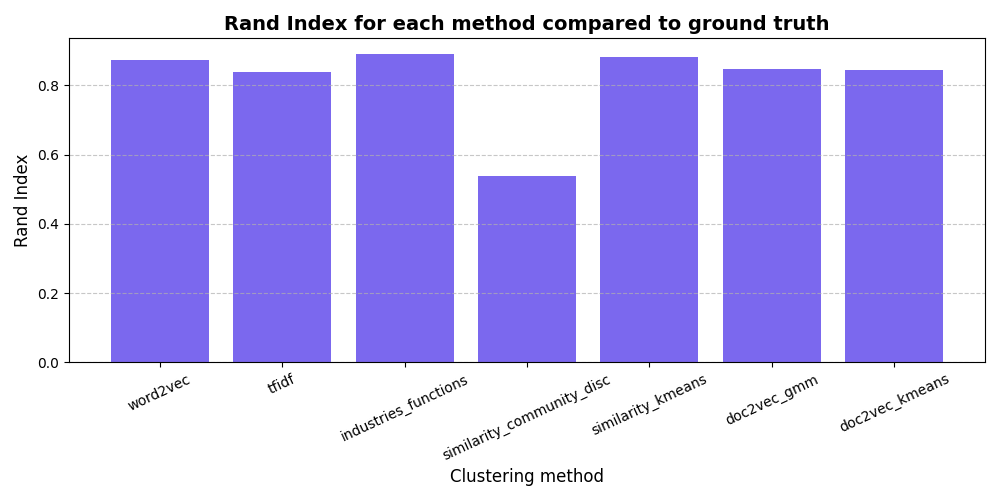
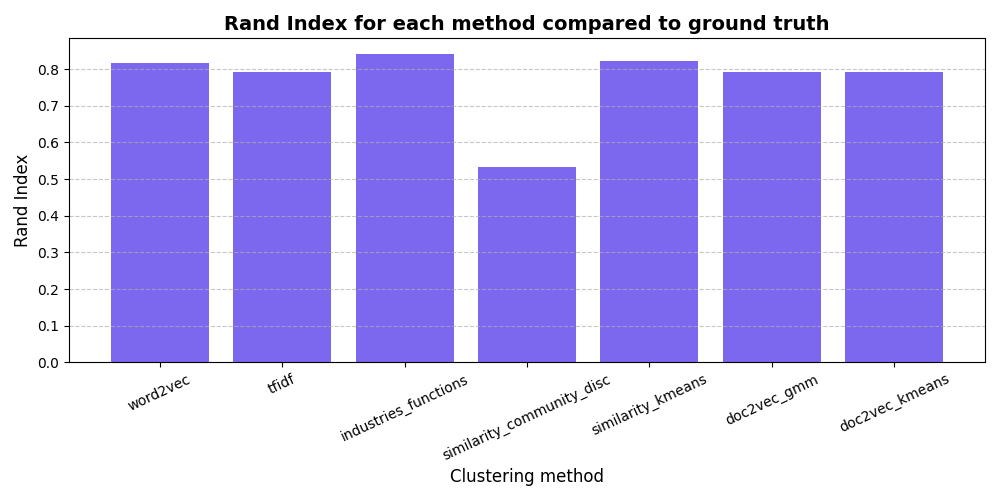
figures, requirements, eval utils, main small update

diff --git a/src/main.py b/src/main.py
@@ -4,8 +4,7 @@ MAIN ENTRYPOINT OF THE ENTIRE PROJECT
 
 import argparse
 import ast
-
-from utils import load_data, visualize_cluster
+from utils import load_data, visualize_cluster, visualize_ground_truth
 from tfidf_cluster import TFIDF_cluster
 from logger import working_on, success, info
 
@@ -30,14 +29,16 @@ def main():
   success("Data loaded")
 
   """TF IDF CLUSTERING"""
-  working_on("TFIDF Clustering")
-  tfidf_clusters, tfidf_matrix = TFIDF_cluster(data, save_clusters=False)
-  visualize_cluster(tfidf_matrix,
-                    tfidf_clusters["cluster"].to_numpy(),
-                    savefig=True,
-                    filename="tfidf_clusters.png",
-                    name="TFIDF Clustering")
-  tfidf_matrix = 0
+  q = input("🧪 Do you want to perform TFIDF clustering? (y/n) ")
+  if q == "y":
+    working_on("TFIDF Clustering")
+    tfidf_clusters, tfidf_matrix = TFIDF_cluster(data, save_clusters=False)
+    visualize_cluster(tfidf_matrix,
+                      tfidf_clusters["cluster"].to_numpy(),
+                      savefig=True,
+                      filename="tfidf_clusters.png",
+                      name="TFIDF Clustering")
+    tfidf_matrix = 0
 
   """WORD2VEC CLUSTERING"""
   # Cluster
@@ -70,6 +71,9 @@ def main():
   """GROUND TRUTH INFERENCE"""
   # SET ENV VARIABLE OPEN_AI_KEY TO YOUR OPEN AI KEY
   # SAVE GROUND TRUTH
+
+  gt = load_data(kind="ground_truth")
+  visualize_ground_truth(gt, savefig=True, filename="ground_truth.png")
 
   """SKILL EXTRACTION"""
   # SET ENV VARIABLE OPEN_AI_KEY TO YOUR OPEN AI KEY

diff --git a/src/utils.py b/src/utils.py
@@ -18,6 +18,8 @@ def load_data(kind="processed"):
     df = pd.read_csv('data/raw/jobs.csv', sep=';')
   elif kind == "processed":
     df = pd.read_csv('data/processed/cleaned_jobs.csv', sep=';')
+  elif kind == "ground_truth":
+    df = pd.read_csv('clusters/ground_truth_gpt.csv')
   return df
 
 
@@ -65,6 +67,22 @@ def visualize_cluster(data,
   plt.title(name, fontsize=16, fontweight='bold')
   plt.xlabel("PCA 1", fontsize=14)
   plt.ylabel("PCA 2", fontsize=14)
+  plt.grid(True, linestyle='--', alpha=0.5)
+  plt.tight_layout()
+  if savefig:
+    plt.savefig(f"figures/{filename}")
+  plt.show()
+
+
+def visualize_ground_truth(gt, savefig=False, filename="ground_truth.png"):
+  plt.figure(figsize=(10, 6))
+  plt.bar(gt["category"].value_counts().index,
+          gt["category"].value_counts().values, color='dodgerblue')
+
+  plt.xticks(rotation=75)
+  plt.title("Ground truth distribution", fontsize=16, fontweight='bold')
+  plt.xlabel("Category", fontsize=14)
+  plt.ylabel("Count", fontsize=14)
   plt.grid(True, linestyle='--', alpha=0.5)
   plt.tight_layout()
   if savefig:

diff --git a/src/evaluation.py b/src/evaluation.py
@@ -53,7 +53,8 @@ def compare_clusters_rand_index(clusters):
 
 def evaluation():
   paths = {
-      'ground_truth': 'clusters/ground_truth.csv',
+      # 'ground_truth': 'clusters/ground_truth.csv',
+      'ground_truth_gpt': 'clusters/ground_truth_gpt.csv',
       'word2vec': 'clusters/word2vec_clusters.csv',
       'tfidf': 'clusters/tf_idf_clusters.csv',
       'industries_functions': 'clusters/ind_fun_onehot_clusters.csv',
@@ -78,8 +79,9 @@ def evaluation():
   success("Rand Index matrix:")
   print(rand_index_matrix.to_string(index=False))
 
-  ground_truth_nmi = nmi_matrix['ground_truth'].drop('ground_truth')
-  ground_truth_rand = rand_index_matrix['ground_truth'].drop('ground_truth')
+  ground_truth_nmi = nmi_matrix['ground_truth_gpt'].drop('ground_truth_gpt')
+  ground_truth_rand = rand_index_matrix['ground_truth_gpt'].drop(
+      'ground_truth_gpt')
 
   # Select the best clustering method based on NMI and Rand Index
   best_nmi = ground_truth_nmi.idxmax()
